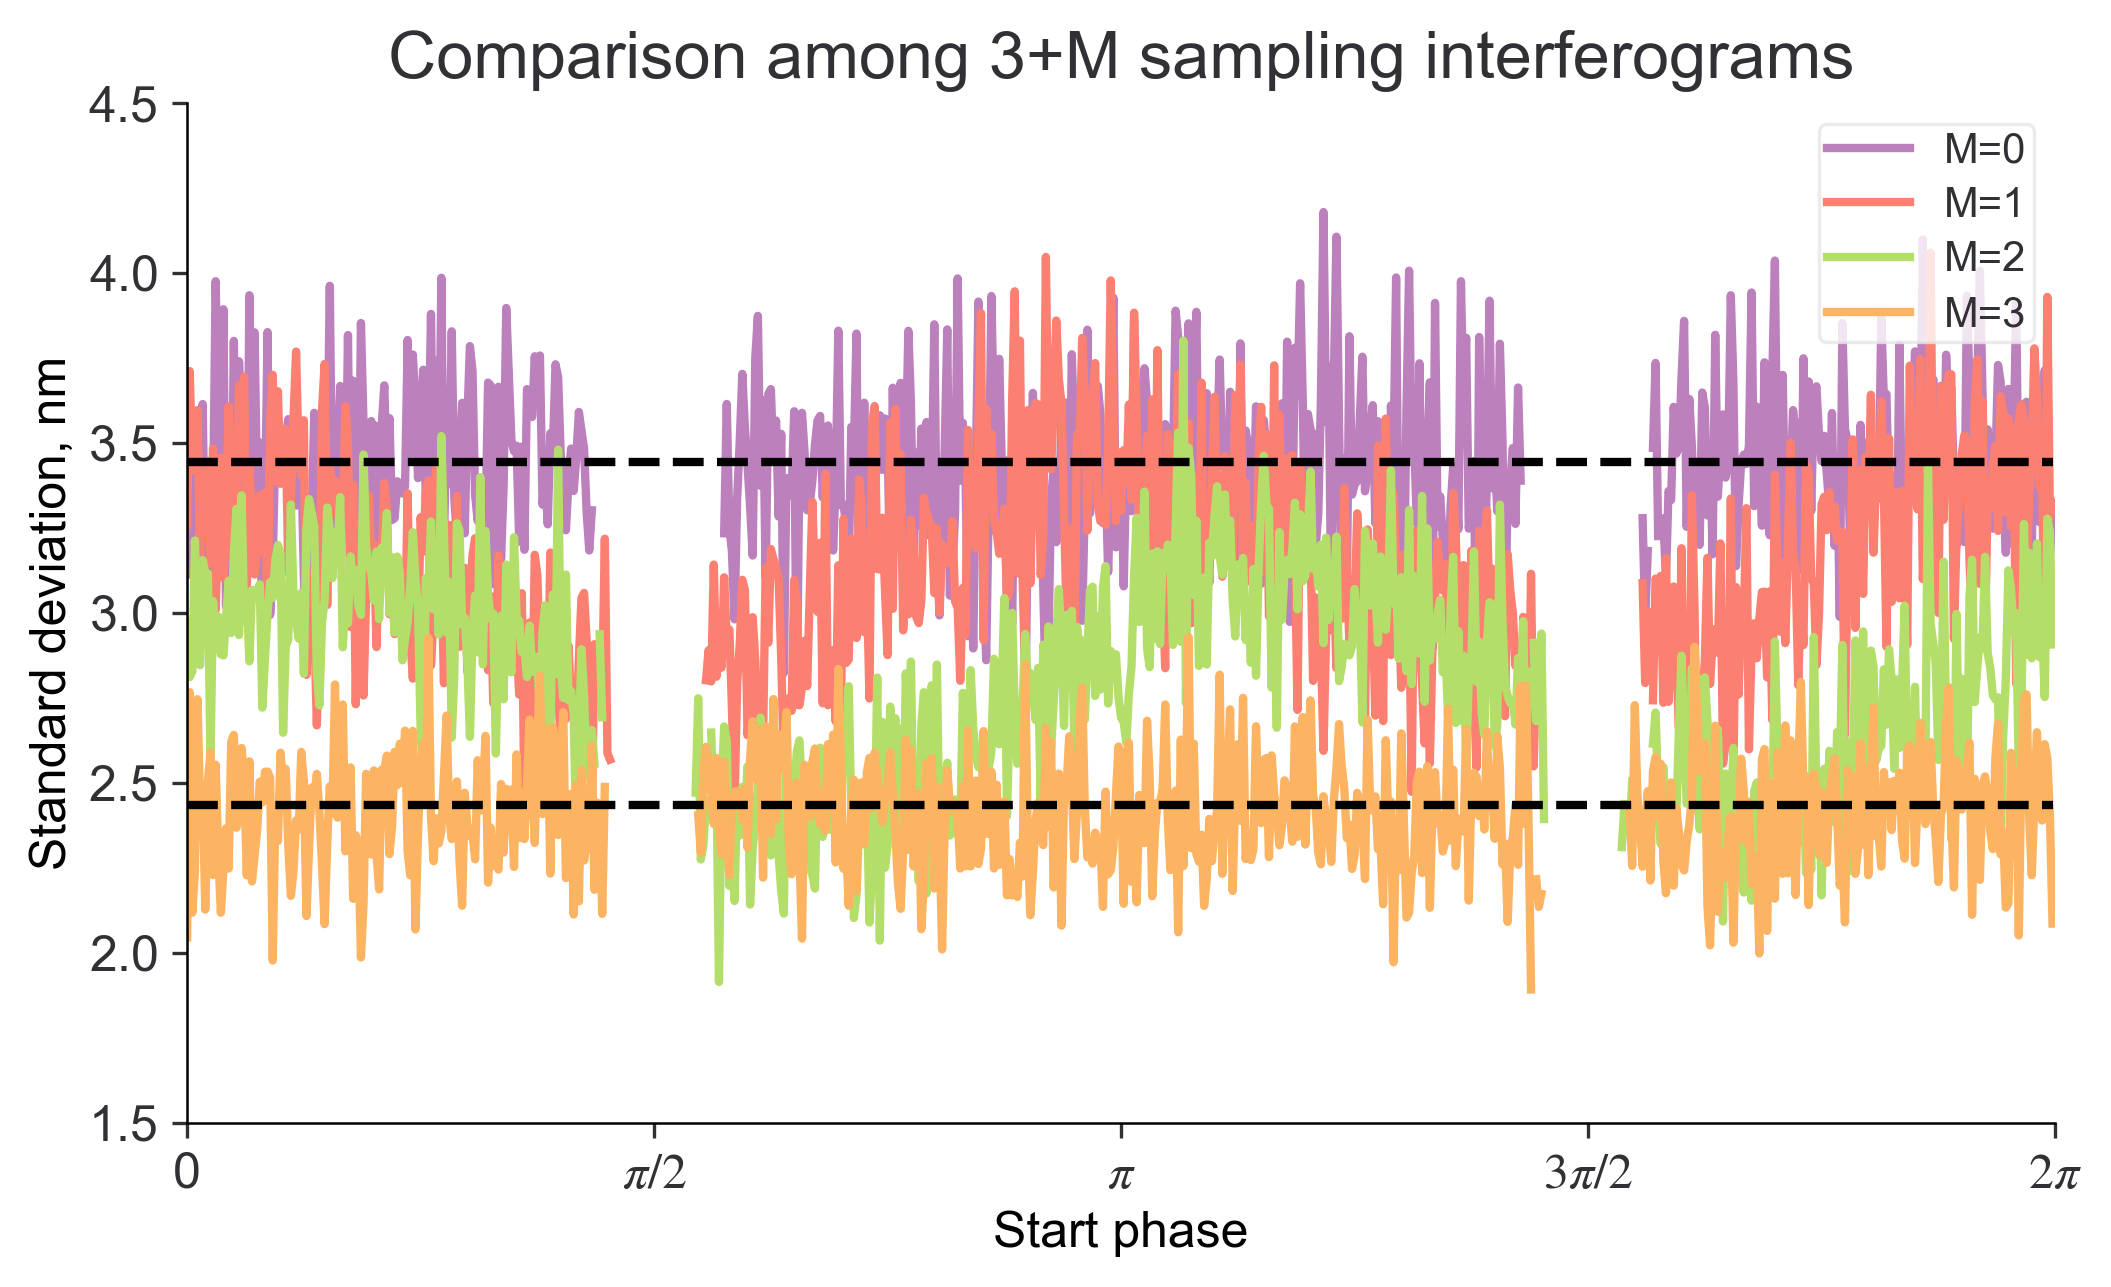
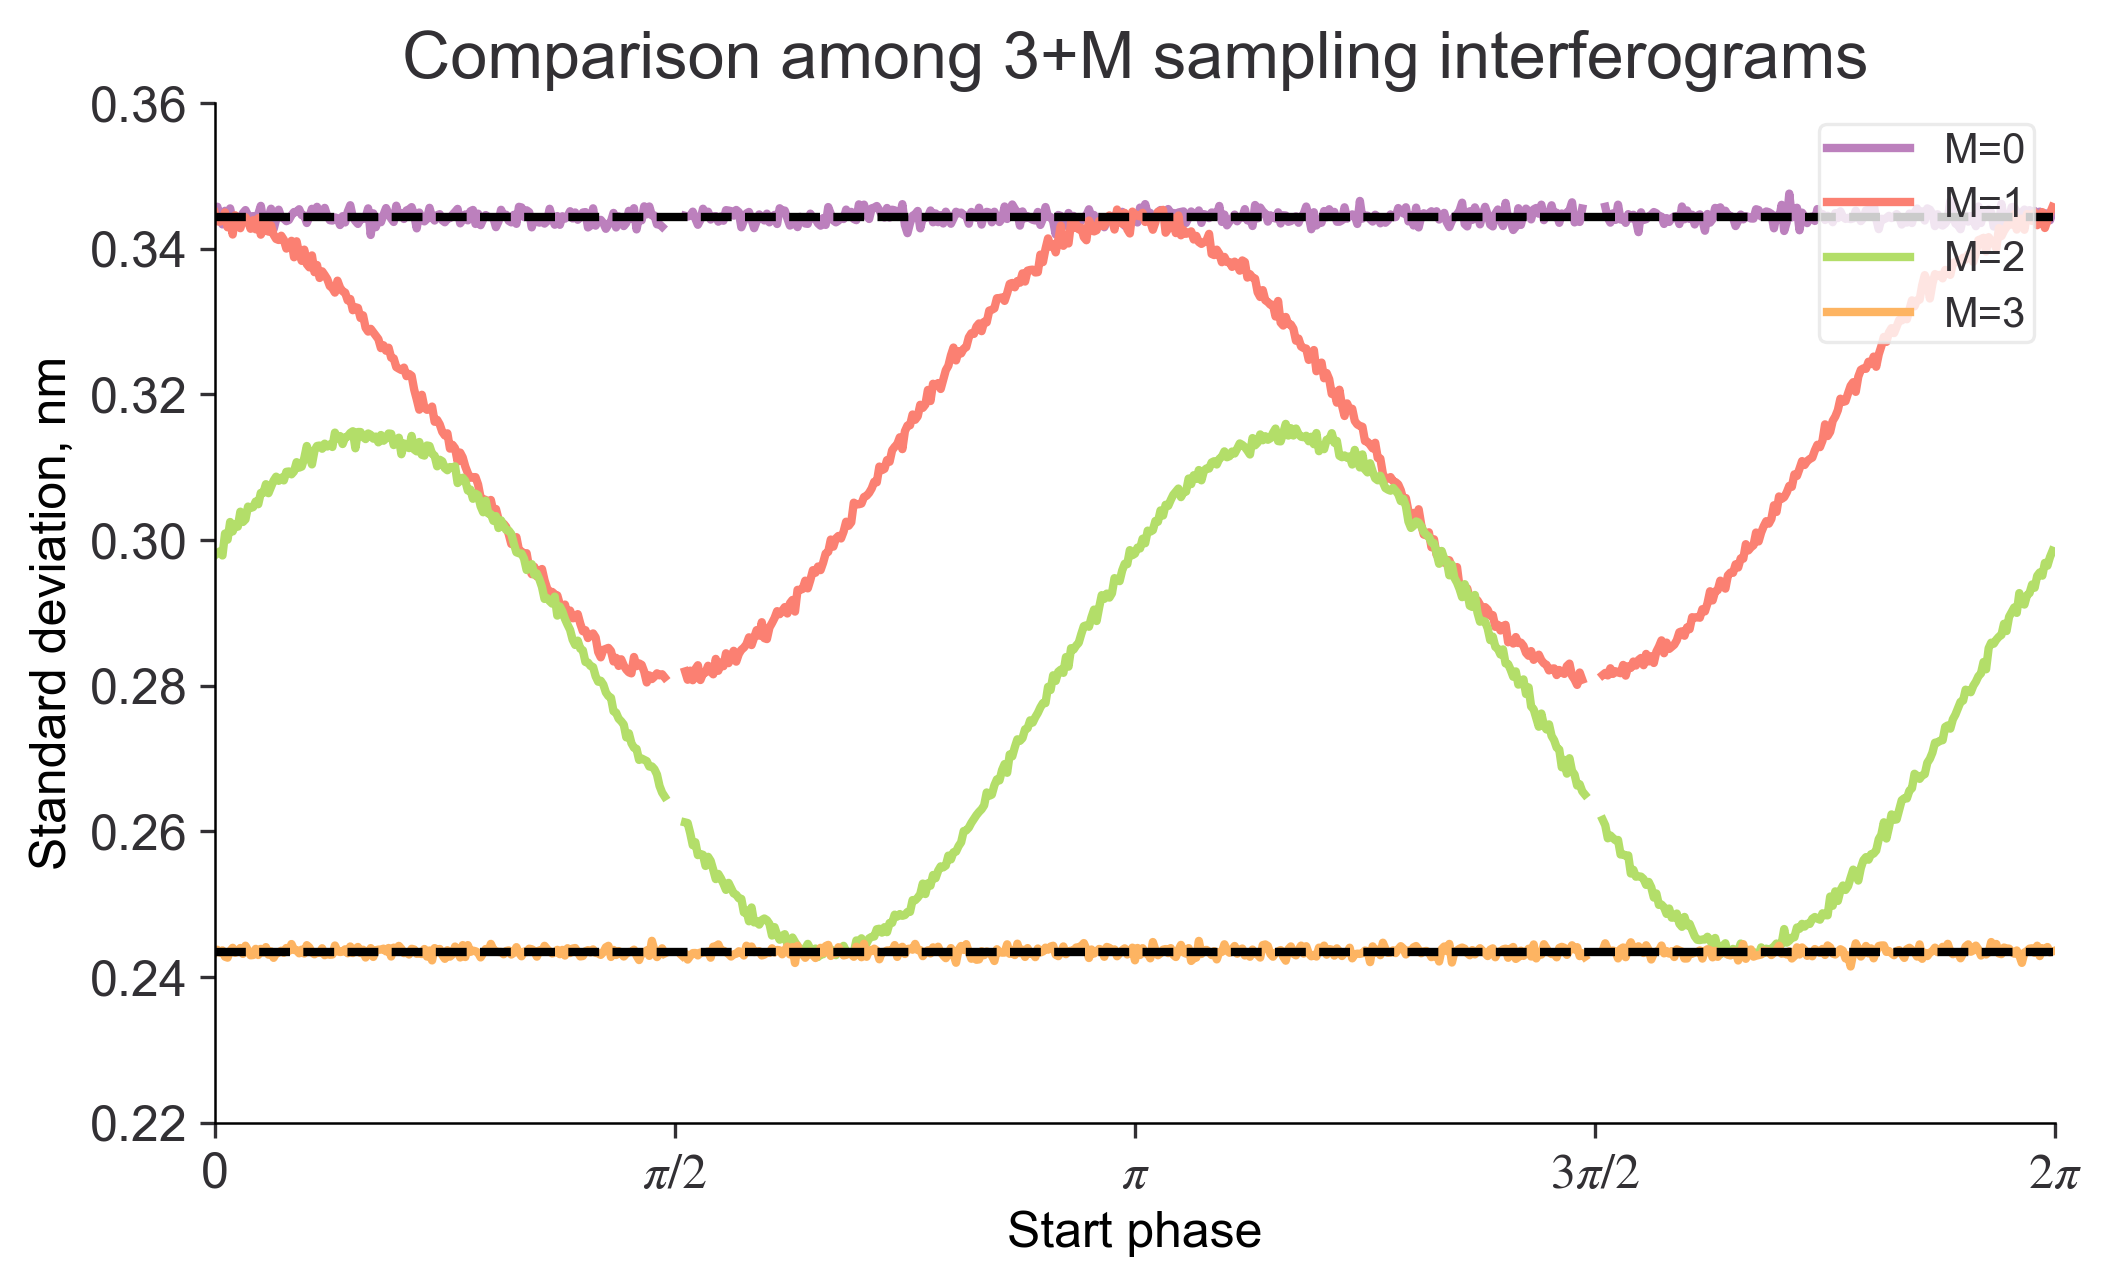
function of PSI

diff --git a/Shot_Noise_N-Diagram.py b/Shot_Noise_N-Diagram.py
@@ -9,7 +9,6 @@ import matplotlib.pyplot as plt
 from PSI_algorithms.N_Step import *
 from PSI_algorithms.Data_Process import *
 
-
 # %% comparison with different sampling frequency
 phase_interval = (0, np.pi * 2)
 _, m_std_3 = n_step(step=3, phase=phase_interval, position_noise=False, shot_noise=True)
@@ -17,20 +16,25 @@ _, m_std_4 = n_step(step=4, phase=phase_interval, position_noise=False, shot_noi
 _, m_std_8 = n_step(step=8, phase=phase_interval, position_noise=False, shot_noise=True)
 _, m_std_20 = n_step(step=20, phase=phase_interval, position_noise=False, shot_noise=True)
 
+m_std_3 = outlier_delete(m_std_3)
+m_std_4 = outlier_delete(m_std_4)
+m_std_8 = outlier_delete(m_std_8)
+m_std_20 = outlier_delete(m_std_20)
+
 # create the graph
 plt.style.use('scientific')
 fig = plt.figure()
-plt.plot(m_std_3, label='3-sampling points', color='green')
-plt.plot(n_Step_theoretical_std(step=3, position_noise=False, shot_noise=True), 'k--')
+plt.plot(m_std_3*.1, label='3-sampling interferograms', color='green')
+plt.plot(n_Step_theoretical_std(step=3, position_noise=False, shot_noise=True)*.1, 'k--')
 
-plt.plot(m_std_4, label='4-sampling points', color='blue')
-plt.plot(n_Step_theoretical_std(step=4, position_noise=False, shot_noise=True), 'k--')
+plt.plot(m_std_4*.1, label='4-sampling interferograms', color='blue')
+plt.plot(n_Step_theoretical_std(step=4, position_noise=False, shot_noise=True)*.1, 'k--')
 
-plt.plot(m_std_8, label='8-sampling points', color='red')
-plt.plot(n_Step_theoretical_std(step=8, position_noise=False, shot_noise=True), 'k--')
+plt.plot(m_std_8*.1, label='8-sampling interferograms', color='red')
+plt.plot(n_Step_theoretical_std(step=8, position_noise=False, shot_noise=True)*.1, 'k--')
 
-plt.plot(m_std_20, label='20-sampling points', color='yellow')
-plt.plot(n_Step_theoretical_std(step=20, position_noise=False, shot_noise=True), 'k--')
+plt.plot(m_std_20*.1, label='20-sampling interferograms', color='yellow')
+plt.plot(n_Step_theoretical_std(step=20, position_noise=False, shot_noise=True)*.1, 'k--')
 
 plt.title('Comparison among different sampling frequencies')
 plt.xlabel('Start phase')
@@ -40,24 +44,24 @@ plt.xticks([0, 720 / 4, 720 / 2, 720 / 4 * 3, 720], [r'0', r'$\pi/2$', r'$\pi$',
 plt.legend(loc='upper right')
 plt.tight_layout()
 plt.savefig('Images/Shot Noise/comparison with different sampling frequency.png', bbox_inches='tight')
-plt.show(block=True)
+plt.show(block=1)
 
 # %% standard deviation vs number of sampling points
-x = np.append(np.array([[3,4,8]]), np.arange(10, 100, 20))  # different steps
+x = np.append(np.array([[3, 4, 8]]), np.arange(10, 100, 20))  # different steps
 y = np.array([])  # std respectively
 phase_interval = (0, np.pi * 2)
 for N in x:
     _, m_std = n_step(step=N, phase=phase_interval, position_noise=False, shot_noise=True)
-
+    m_std = outlier_delete(m_std)
     m_std_average = np.nanmean(m_std)
     y = np.append(y, [m_std_average])
-mu_Intensity = 0.1
+mu_Intensity = 0.01
 factor = 530 / (4 * np.pi)
 x_combined = np.append(np.array(3), np.arange(5, 100, 1))
 plt.style.use('scientific')
 plt.figure()
-plt.scatter(x, y, color='blue', marker='o', label='monte-carlo method', edgecolors='blue',zorder=2)
-plt.loglog(x_combined, np.sqrt(2 / (x_combined)) * mu_Intensity * factor, 'k-', label='combined uncertainty',zorder=1)
+plt.scatter(x, y, color='blue', marker='o', label='monte-carlo method', edgecolors='blue', zorder=2)
+plt.loglog(x_combined, np.sqrt(2 / (x_combined)) * mu_Intensity * factor, 'k-', label='combined uncertainty', zorder=1)
 plt.xlabel('Number of sampling Interferograms (N)')
 plt.xticks([3, 10, 100], ['3', r'$10$', r'$10^2$'])
 plt.ylabel('Standard deviation, nm')
@@ -66,5 +70,4 @@ plt.legend(loc='upper right')
 plt.xlim(2, 200)
 plt.tight_layout()
 plt.savefig('Images/Shot Noise/standard deviation vs number of sampling points', bbox_inches='tight')
-plt.close()
-
+plt.show(block=1)

diff --git a/Shot_Noise_NM-Diagram.py b/Shot_Noise_NM-Diagram.py
@@ -10,12 +10,12 @@ from PSI_algorithms.N_Step import *
 from PSI_algorithms.Data_Process import *
 
 # %% comparison with N+M sampling points
-for N in np.array([3]):
+for N in np.array([3,4,5,6,8]):
     M = np.arange(0, N + 1, 1)
     plt.style.use('scientific')
     fig1 = plt.figure()
     for i in M:
-        _, std = N_M_step(step=N, over_sample_points=i, position_noise=False, shot_noise=True,loop=100)
+        _, std = N_M_step(step=N, over_sample_points=i, position_noise=False, shot_noise=True)
         std=outlier_delete(std)
         plt.plot(std, label='M={}'.format(i))
 
@@ -33,6 +33,5 @@ for N in np.array([3]):
     plt.title('Comparison among {}+M sampling interferograms'.format(N))
     plt.tight_layout()
     plt.savefig('Images/Shot Noise/comparison with {}+M sampling points'.format(N), bbox_inches='tight')
-    plt.show(block=1)
     plt.close(fig1)
 #%%

diff --git a/PSI_algorithms/N_plus_M_Step.py b/PSI_algorithms/N_plus_M_Step.py
@@ -24,7 +24,7 @@ def N_M_step(step=3, over_sample_points=1, phase=(0, 2 * np.pi), point_number=72
     print('the current step:', step, '\n', 'the current over sampling points:', over_sample_points)
     print('Time:', datetime.now())
     if shot_noise is True:
-        mu_intensity = 0.1
+        mu_intensity = 0.01
     else:
         mu_intensity = 0
 
@@ -115,7 +115,7 @@ def N_M_theoretical_std(step=3, over_sample_points=1, phase=(0, 2 * np.pi), poin
         # return theoretical standard deviation
         return std
     if shot_noise is True:
-        mu_intensity = 0.001
+        mu_intensity = 0.01
         factor = lamda / (4 * np.pi)
         phase = np.linspace(phase[0], phase[1], point_number)
         A = np.zeros([point_number])

diff --git a/PSI_algorithms/N_Step.py b/PSI_algorithms/N_Step.py
@@ -22,7 +22,7 @@ def n_step(step=3, phase=(0, 2 * np.pi), point_number=720, loop=100000, mu_phase
     print('the current step:', step)
     print('Time:', datetime.now())
     if shot_noise is True:
-        mu_intensity = 0.1
+        mu_intensity = 0.01
     else:
         mu_intensity = 0
 
@@ -73,7 +73,7 @@ def n_Step_theoretical_std(step=3, phase=(0, 2 * np.pi), point_number=720, lamda
         # return theoretical standard deviation
         return std
     if shot_noise is True:
-        mu_intensity = 0.1
+        mu_intensity = 0.01
         factor = lamda / (4 * np.pi)
         N = step
         A = np.ones([point_number]) * (1 / b * np.sqrt(2 / N))

diff --git a/Problem_Proof.py b/Problem_Proof.py
@@ -3,7 +3,6 @@
 # @Email   : x.rao@tu-braunschweig.de
 # @File    : Problem_Proof.py
 # @Software: PyCharm
-import numpy as np
 
 from PSI_algorithms.N_plus_M_Step import *
 from PSI_algorithms.N_Step import n_Step_theoretical_std
@@ -33,3 +32,6 @@ plt.tight_layout()
 plt.savefig('Images/Positioning Noise/STD/comparison with {}+M sampling interferograms(6+3)'.format(N),
             bbox_inches='tight')
 plt.close()
+
+
+#%%
